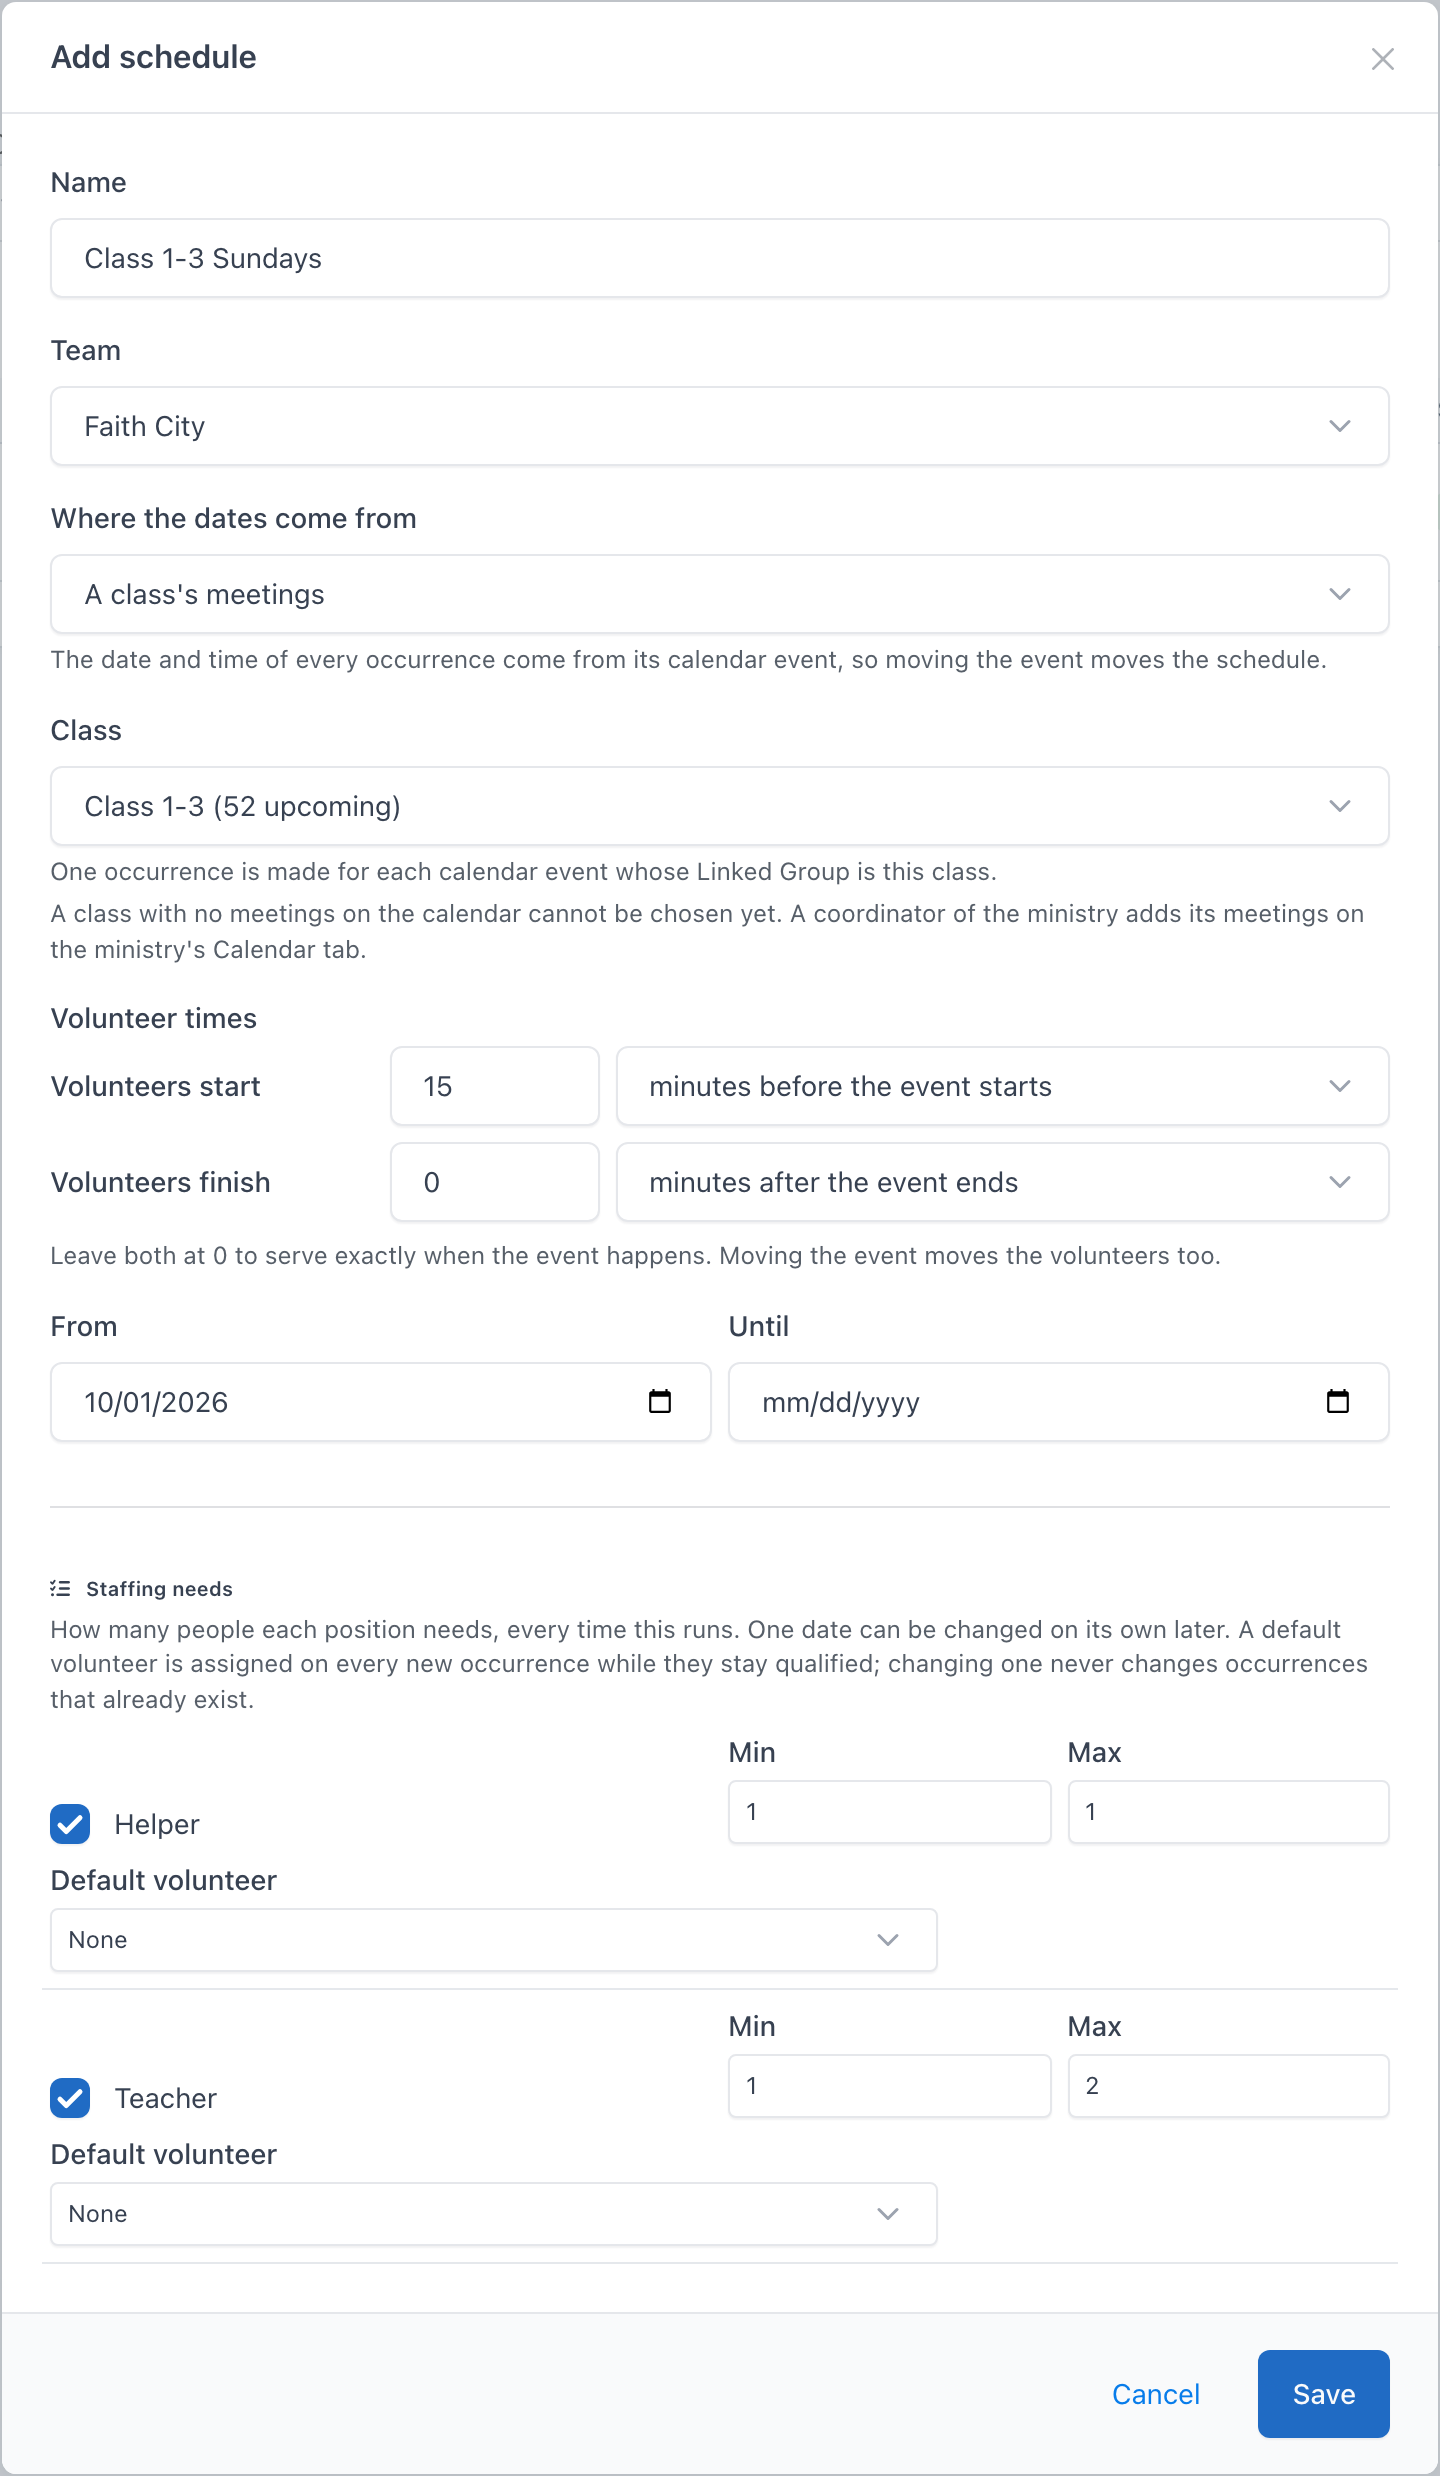
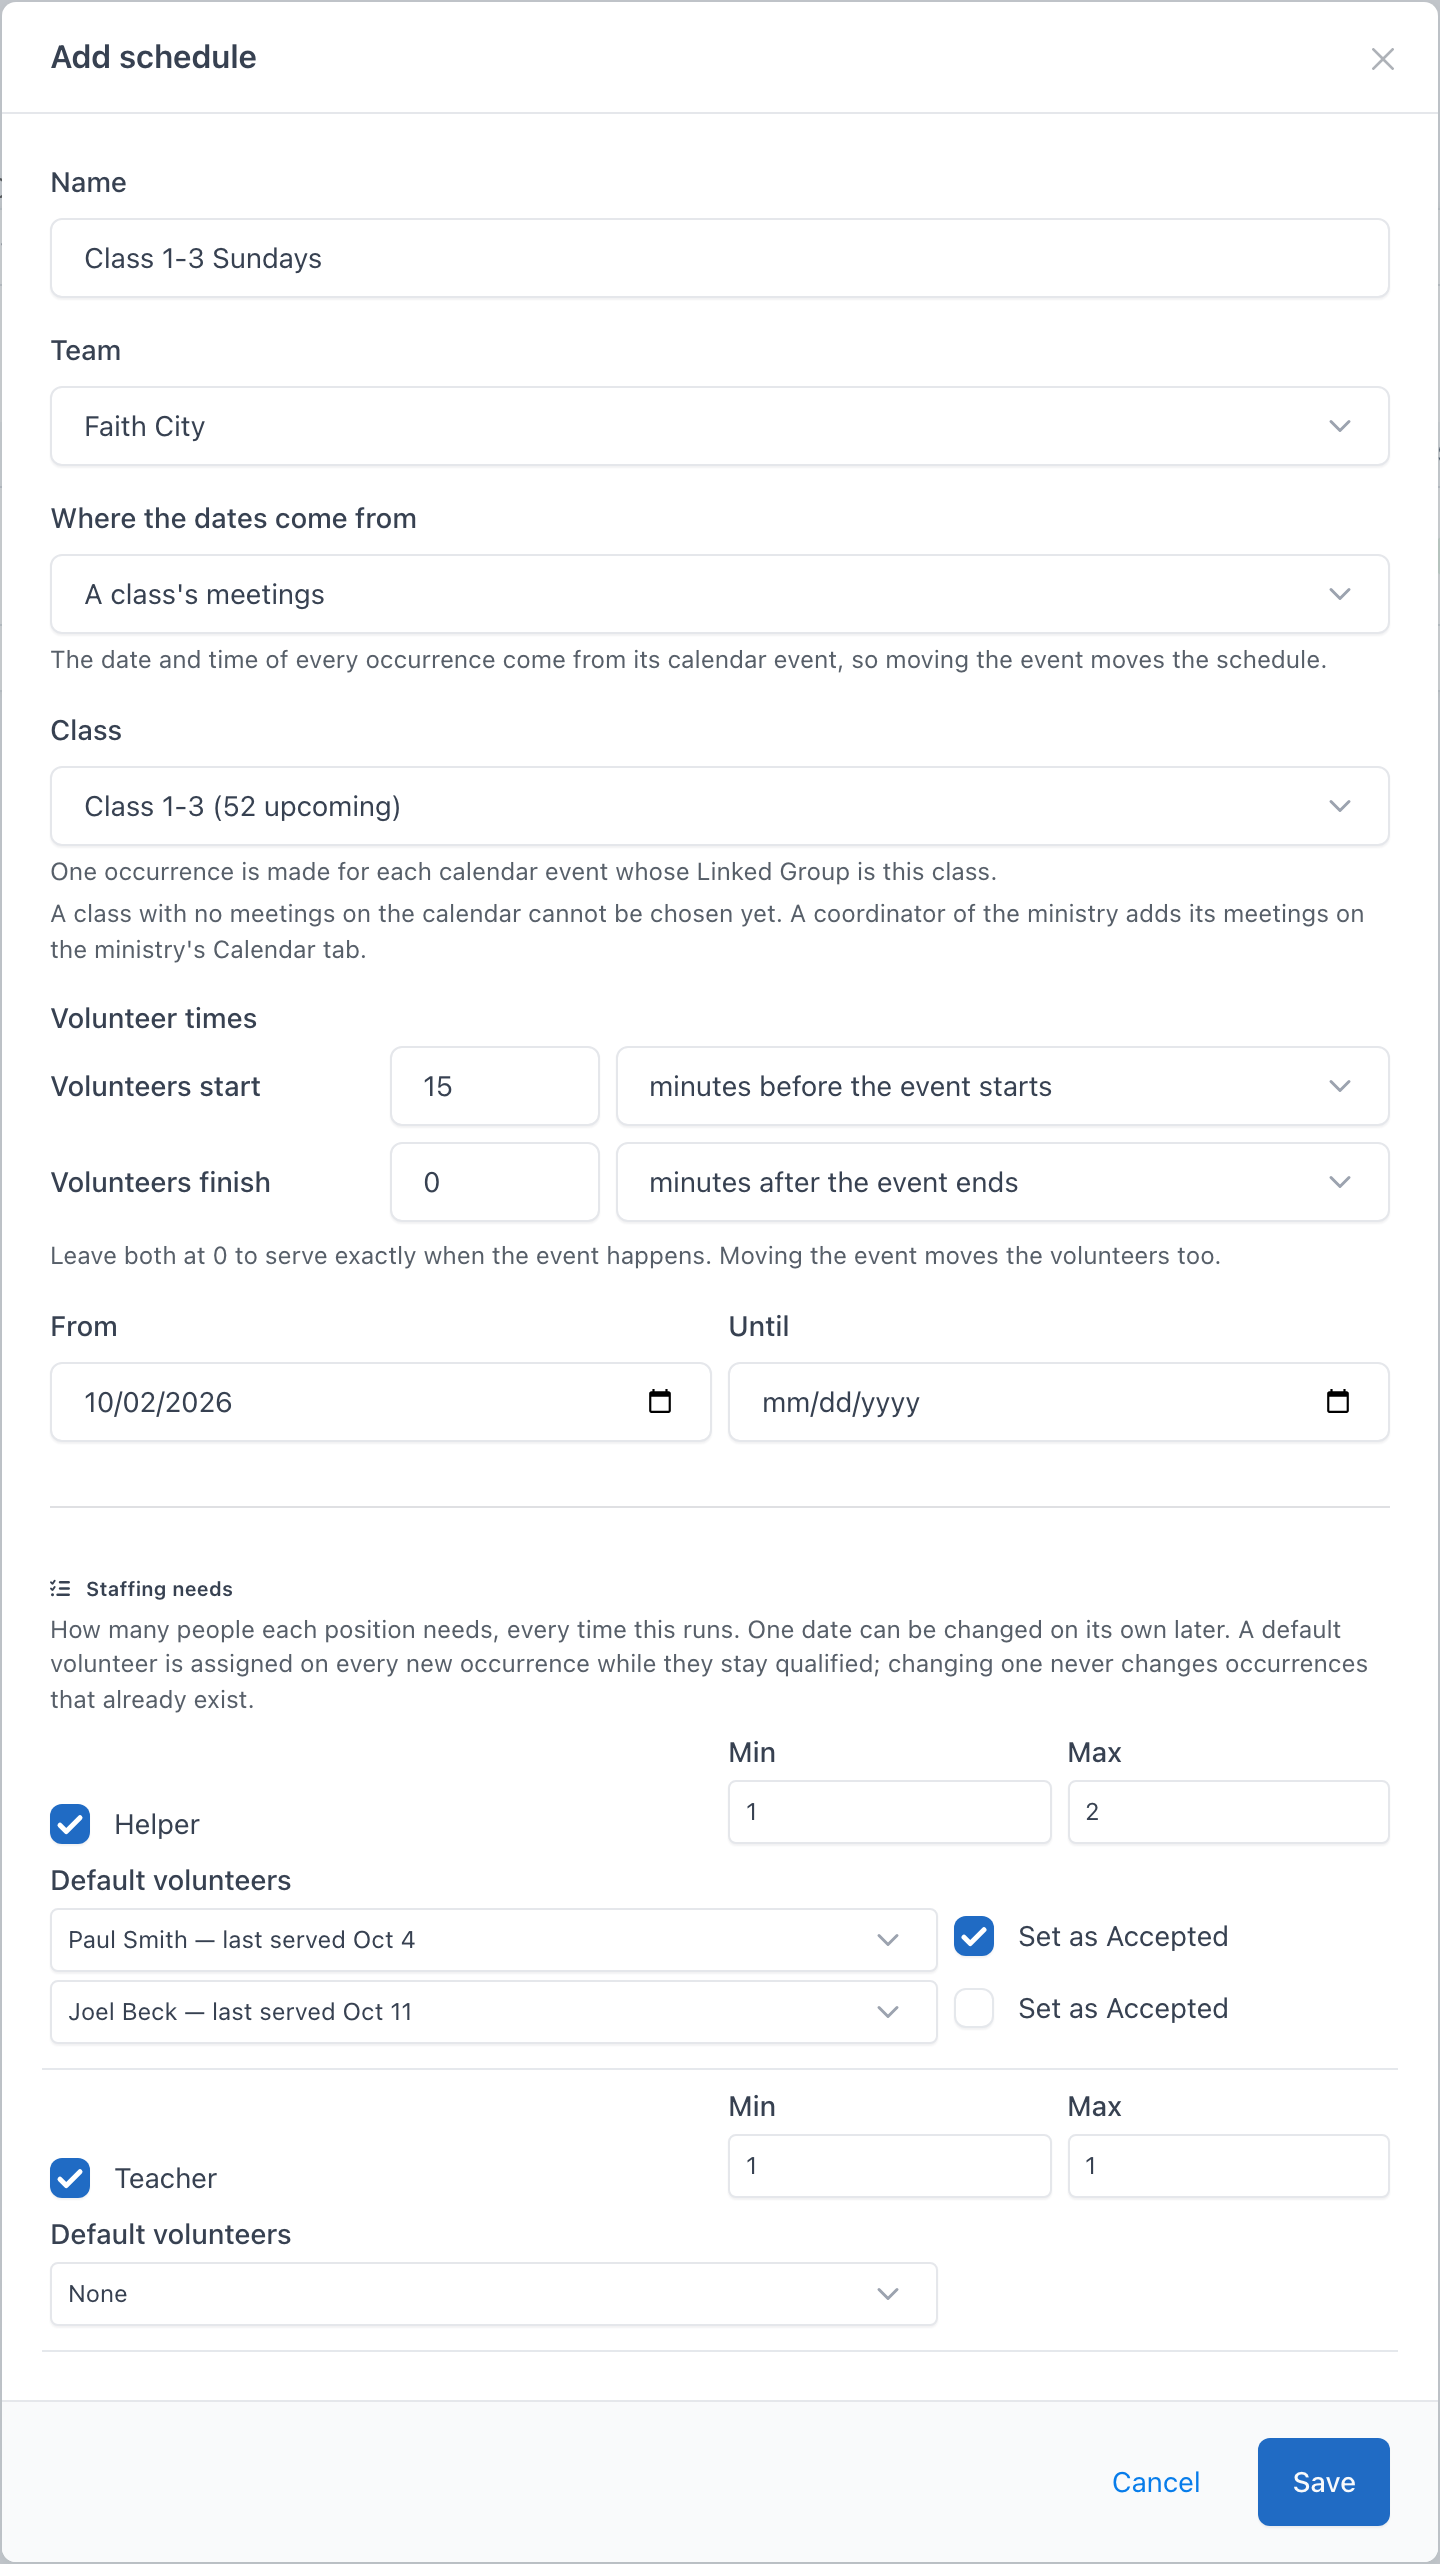
docs(member-portal): staffing status words and several default volunteers
Find something to do cards now read "Needs 1 more" or "Covered · 1 more
welcome", and the My Teams Dates tab and date page use the same words.
Add a schedule takes one default volunteer per place up to Max, each
with its own Set as Accepted; a Max below the chosen ones stops Save.

Retakes the Find something to do and Add schedule screenshots.

diff --git a/docs/user-guide/member-portal.md b/docs/user-guide/member-portal.md
@@ -156,7 +156,7 @@ Places you are trained for that still need someone, plus ministries that are loo
 ![Find something to do](/img/user-guide/member-portal-volunteering-opportunities.png)
 
 - **Ministries looking for help** lists ministries that have said they would like more people. Press **I'd like to help** and the coordinator is told; the page confirms with *"Thanks — the coordinator has been told you'd like to help."*
-- **Upcoming availability** lists scheduled positions that still need someone. **Sign up** puts you on the list — *"You are on the list — thank you."* — and the date appears on **My schedule**. If you are already helping that day in another position, the card says so before you sign up.
+- **Upcoming availability** lists scheduled positions you are trained for that still have room. Each card says how the place stands: *"Needs 1 more"* while the position is short of the people it needs, or *"Covered · 1 more welcome"* when it has enough but would welcome another. **Sign up** puts you on the list — *"You are on the list — thank you."* — and the date appears on **My schedule**. If you are already helping that day in another position, the card says so before you sign up.
 
 With nothing open the page says *"Nothing open right now"* and *"We will email you when something needs filling."*
 
@@ -175,7 +175,7 @@ With nothing open the page says *"Nothing open right now"* and *"We will email y
 | **Positions** | **Add position** — a job someone does on this team, such as Espresso or Song Leader — with a name, description, order, whether it is active, **Recruit Volunteers**, which advertises it on the page where members look for something to help with, and **Self-assignable**, which lets qualified volunteers sign themselves up for its open dates. Switch **Self-assignable** off for a position only you or a coordinator should assign. |
 | **Volunteers** | A grid of your team's people against its positions. Tick who can serve where; *"Ticks save as you make them."* On a team linked to a Sunday School class, a tick also makes that person a teacher of the class. |
 | **Schedules** | **Add schedule** — which calendar events the team serves, at what times, and how many people each position needs. See [Add a schedule](#add-a-schedule) below. |
-| **Dates** | Every date your team serves, soonest first, with how well each is filled. Filter by **Event**, **From** and **To**. Open a date to see its staffing, **Assign a volunteer** (whoever served least recently is listed first) and answer any requests to swap. **Staff an event** staffs a single upcoming calendar event; to staff a whole series, add a schedule instead. |
+| **Dates** | Every date your team serves, soonest first, with an icon for how well each is filled; point at it to read it in words, for example *"Needs 2 more"* or *"Covered · 1 more welcome"*. Filter by **Event**, **From** and **To**. Open a date to see each position's staffing in the same words (*"Needs 1 more"*, *"Full · 2 of 2"*), **Assign a volunteer** (whoever served least recently is listed first) and answer any requests to swap. **Staff an event** staffs a single upcoming calendar event; to staff a whole series, add a schedule instead. |
 
 ![A team's Positions tab](/img/user-guide/member-portal-team-positions.png)
 
@@ -194,7 +194,7 @@ A schedule follows events that are already on the church calendar. It never make
    Only events already on the calendar can be chosen; each choice shows how many dates are coming up. A class with no meetings on the calendar cannot be chosen yet. A team leader cannot add events: ask the ministry's coordinator to add them on the ministry's **Calendar** tab.
 3. Under **Volunteer times**, set when your volunteers start and finish, in minutes before or after the event's start and end — for example, start 15 minutes before the event starts. Leave both at 0 to serve exactly when the event happens.
 4. Optionally limit the schedule with **From** and **Until** dates.
-5. Under **Staffing needs**, tick the positions each date needs, with **Min** and **Max** people for each. Optionally choose a **Default volunteer** for a position: they are put on every new date while they stay qualified for it.
+5. Under **Staffing needs**, tick the positions each date needs, with **Min** and **Max** people for each. Optionally choose **Default volunteers** for a position: there is one list per place, so a position with Max 2 has two, and someone chosen in one list is not offered in the others. Everyone chosen is put on every new date while they stay qualified for it. Tick **Set as Accepted** beside a person who has already agreed, so they are not asked. If you lower **Max** below the number of people chosen, **Save** stops with a message such as *"Helper: Max is 1 but 2 default volunteers are chosen. Remove one or raise Max."*
 6. Press **Save**.
 
 **Save** creates the schedule and its dates straight away, up to your church's scheduling horizon (eight weeks ahead unless your church has changed it). The **Dates** tab opens with the new dates and a message saying how many were made and how many default volunteers were assigned. ChurchCRM adds the next dates by itself every day as the horizon moves on, so you never have to generate the weeks ahead by hand.
@@ -203,8 +203,8 @@ If Save finds no event to staff yet — for example because the schedule's **Fro
 
 The action menu of each schedule offers:
 
-- **Edit** — change the schedule. Editing never makes dates. New staffing needs apply to every date that has not been changed on its own; a new default volunteer goes only on dates made from then on.
-- **Generate occurrences** — make any dates still missing up to the horizon (*"Occurrences are created for events in the next 8 weeks (through …)"*), and choose who to **Fill by default with** for each position. Your choice is saved on the schedule. Dates that already exist are left alone.
+- **Edit** — change the schedule. Editing never makes dates. New staffing needs apply to every date that has not been changed on its own; new default volunteers go only on dates made from then on.
+- **Generate occurrences** — make any dates still missing up to the horizon (*"Occurrences are created for events in the next 8 weeks (through …)"*), and choose who to **Fill by default with** for each position, one list per place up to its Max. Your choices are saved on the schedule. Dates that already exist are left alone.
 - **Deactivate** — pause the schedule: it makes no new dates until you **Reactivate** it.
 - **Delete** — remove the schedule and its dates. A schedule with volunteers assigned on any of its dates cannot be deleted; deactivate it instead.
 
